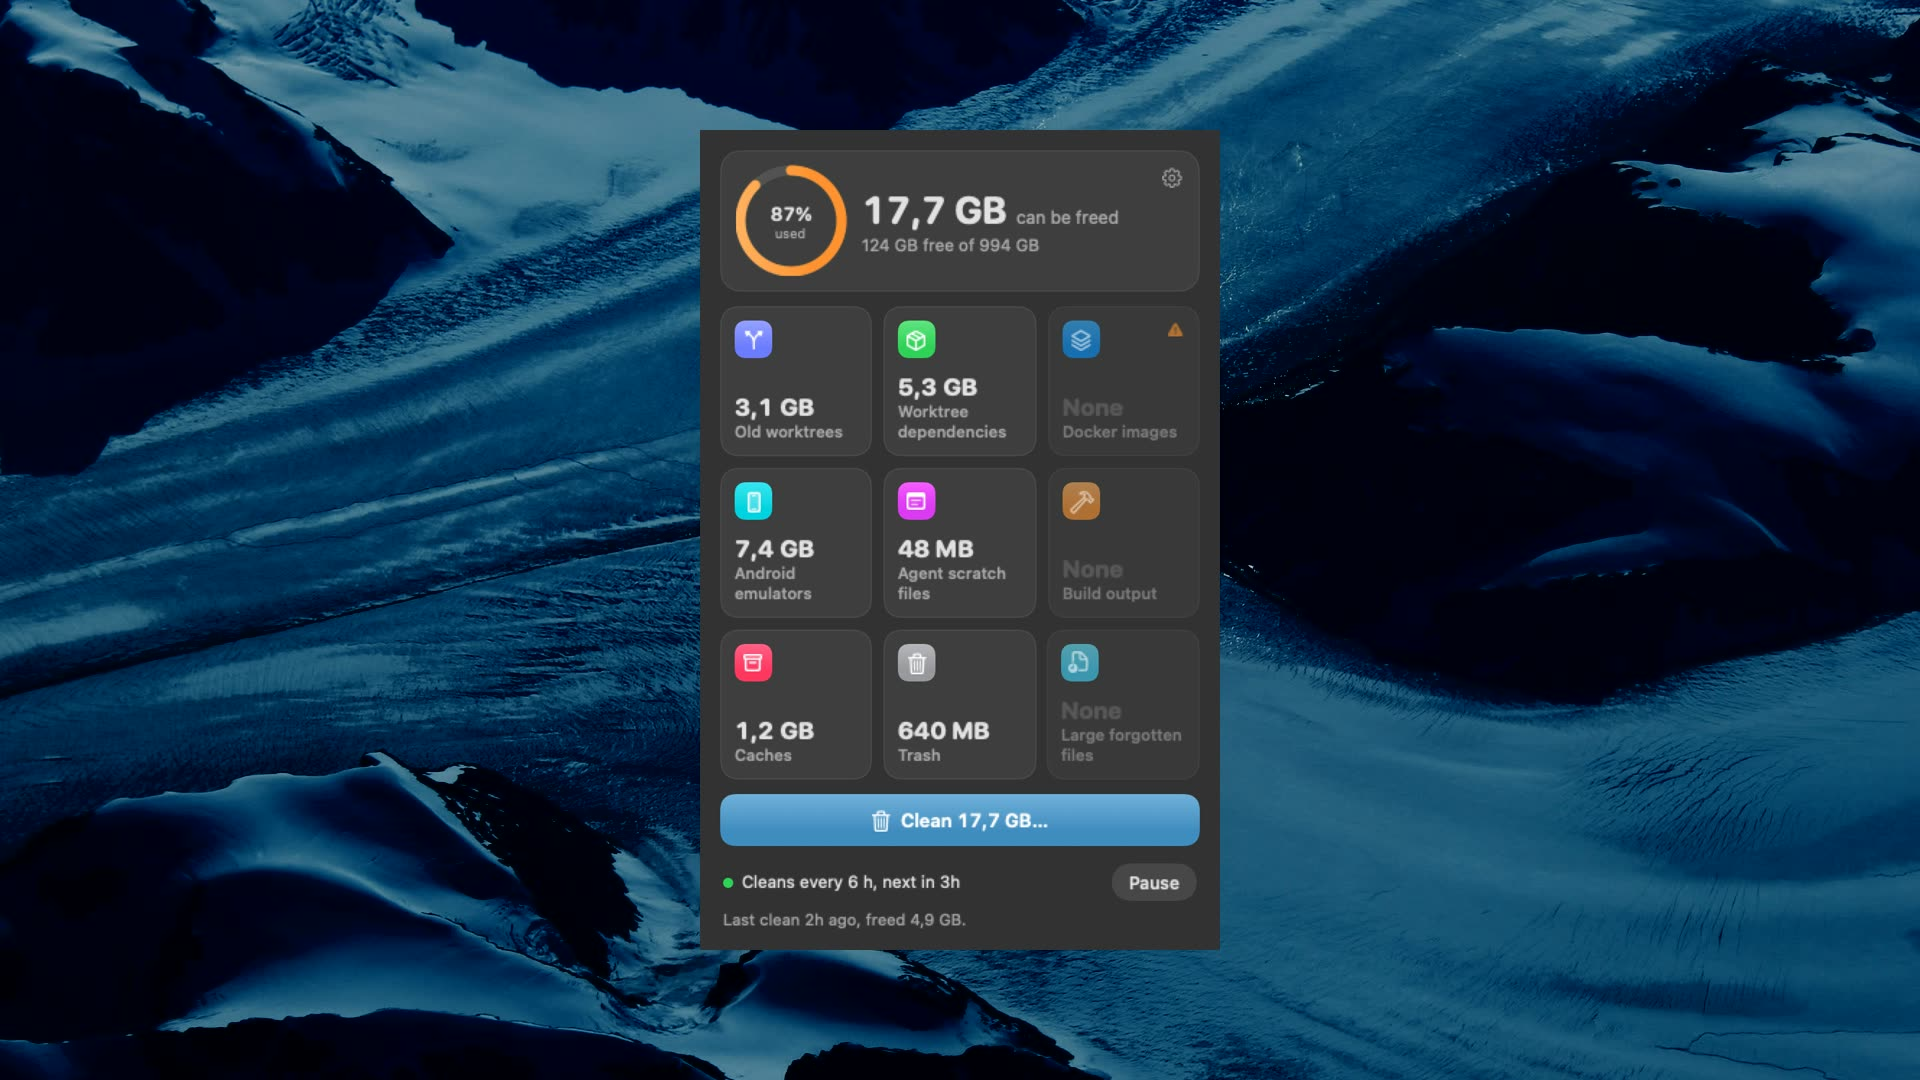
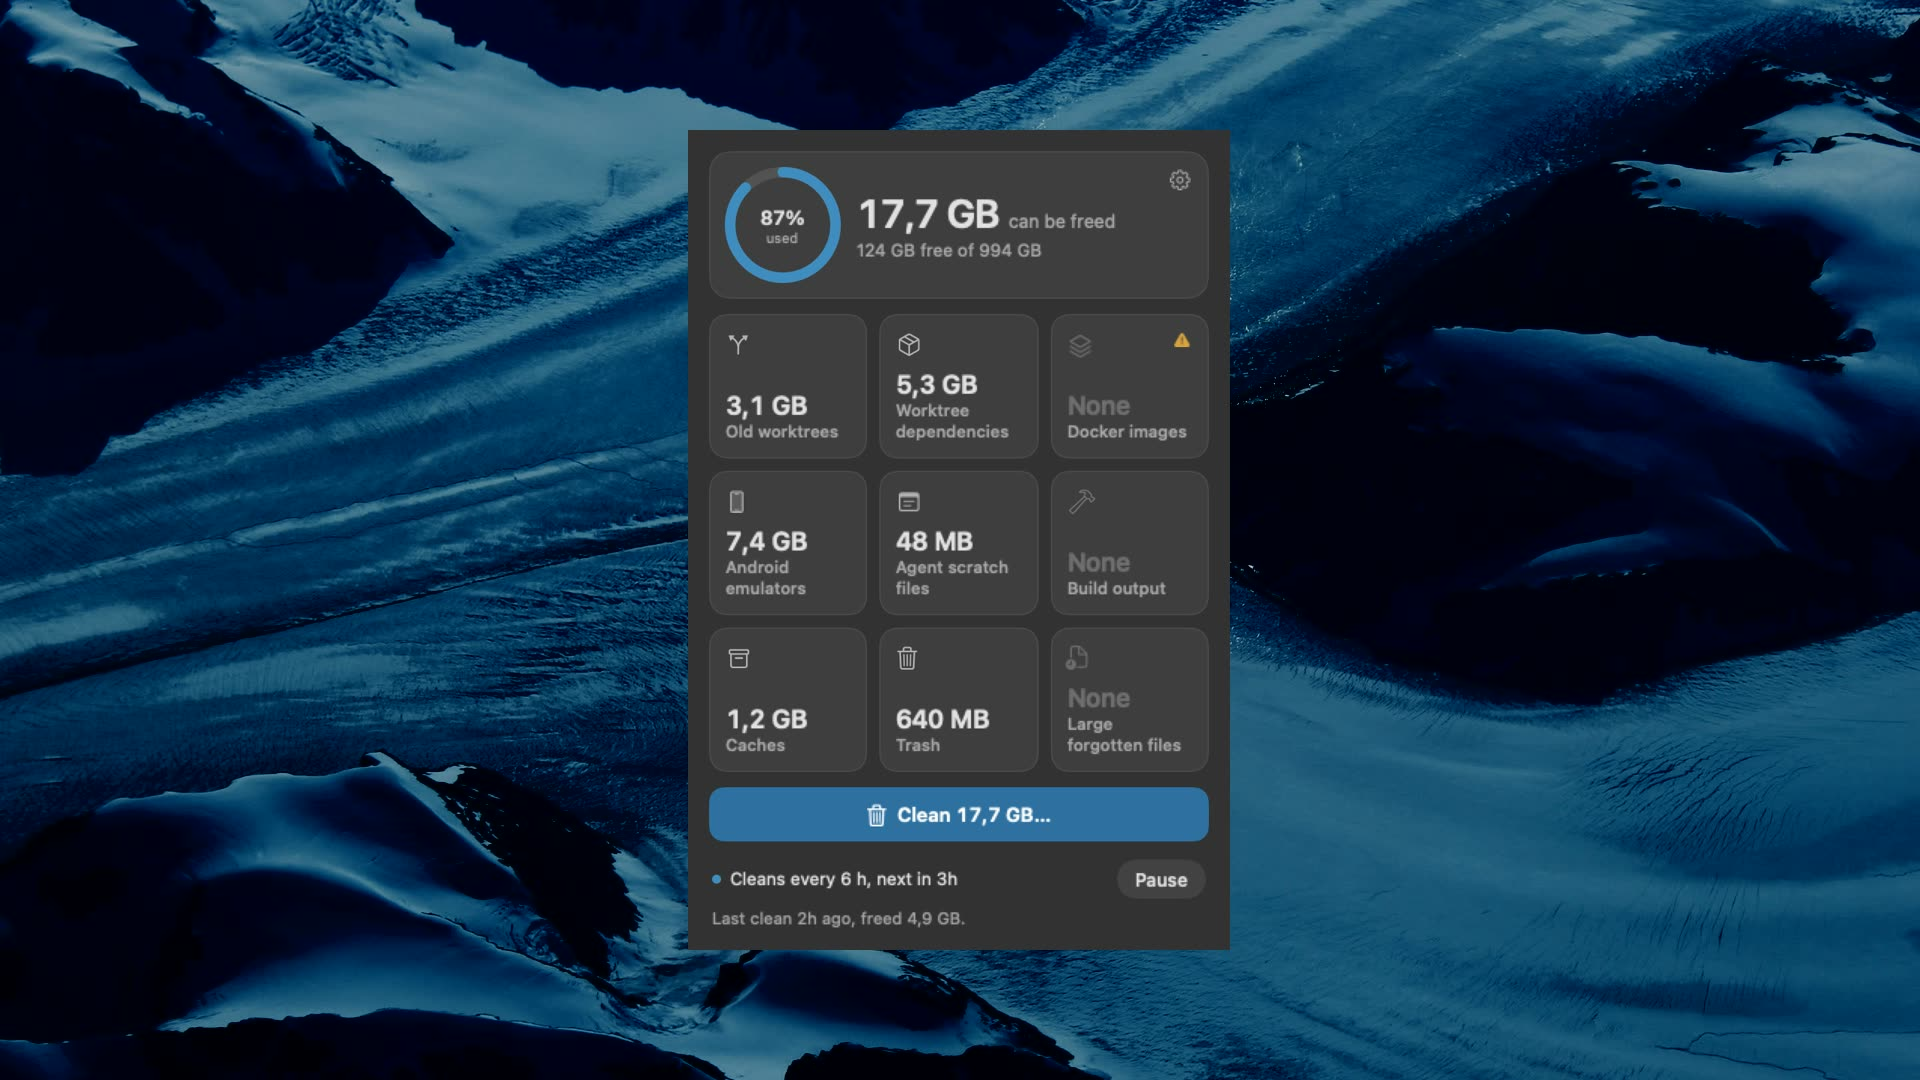
Calmer panel: neutral greys, one glacier-blue accent
Category and settings icons become monochrome symbols on a neutral well.
The usage ring stays accent until disk use passes 95% or the low-disk
threshold trips. Flat accent Clean button, quieter status dot and pills,
semantic warning and critical colours only where something is wrong.
Fresh panel, setup and demo poster renders for the site.

diff --git a/index.html b/index.html
@@ -42,6 +42,9 @@
         <a class="icon" href="https://github.com/blazejkustra/Mac-Janitor" aria-label="Source on GitHub">
           <svg viewBox="0 0 24 24" aria-hidden="true"><path d="M12 .5a11.5 11.5 0 0 0-3.64 22.41c.58.1.79-.25.79-.56v-2c-3.2.7-3.88-1.37-3.88-1.37-.52-1.33-1.28-1.69-1.28-1.69-1.05-.71.08-.7.08-.7 1.16.08 1.77 1.19 1.77 1.19 1.03 1.77 2.7 1.26 3.36.96.1-.75.4-1.26.73-1.55-2.56-.29-5.24-1.28-5.24-5.69 0-1.26.45-2.29 1.19-3.09-.12-.29-.52-1.46.11-3.05 0 0 .97-.31 3.17 1.18a11 11 0 0 1 5.77 0c2.2-1.49 3.17-1.18 3.17-1.18.63 1.59.23 2.76.11 3.05.74.8 1.19 1.83 1.19 3.09 0 4.42-2.69 5.39-5.25 5.68.41.36.78 1.06.78 2.14v3.17c0 .31.21.67.8.56A11.5 11.5 0 0 0 12 .5Z"/></svg>
         </a>
+        <a class="icon" href="https://x.com/blazejkustra_" aria-label="Błażej Kustra on X">
+          <svg viewBox="0 0 24 24" aria-hidden="true"><path d="M18.244 2.25h3.308l-7.227 8.26 8.502 11.24H16.17l-5.214-6.817L4.99 21.75H1.68l7.73-8.835L1.254 2.25H8.08l4.713 6.231zm-1.161 17.52h1.833L7.084 4.126H5.117z"/></svg>
+        </a>
       </nav>
     </header>
 
@@ -64,7 +67,7 @@
 
   <section class="tour wrap">
     <figure class="shot">
-      <img src="assets/panel-dark.png" width="720" height="1136" alt="The Mac Janitor menu-bar panel: 17.7 GB can be freed, split into old worktrees, worktree dependencies, Android emulators, caches, the Trash and more" loading="lazy">
+      <img src="assets/panel-dark.png" width="720" height="1088" alt="The Mac Janitor menu-bar panel: 17.7 GB can be freed, split into old worktrees, worktree dependencies, Android emulators, caches, the Trash and more" loading="lazy">
     </figure>
     <div class="tour-copy">
       <h2>Everything your agents left behind, in one panel.</h2>
